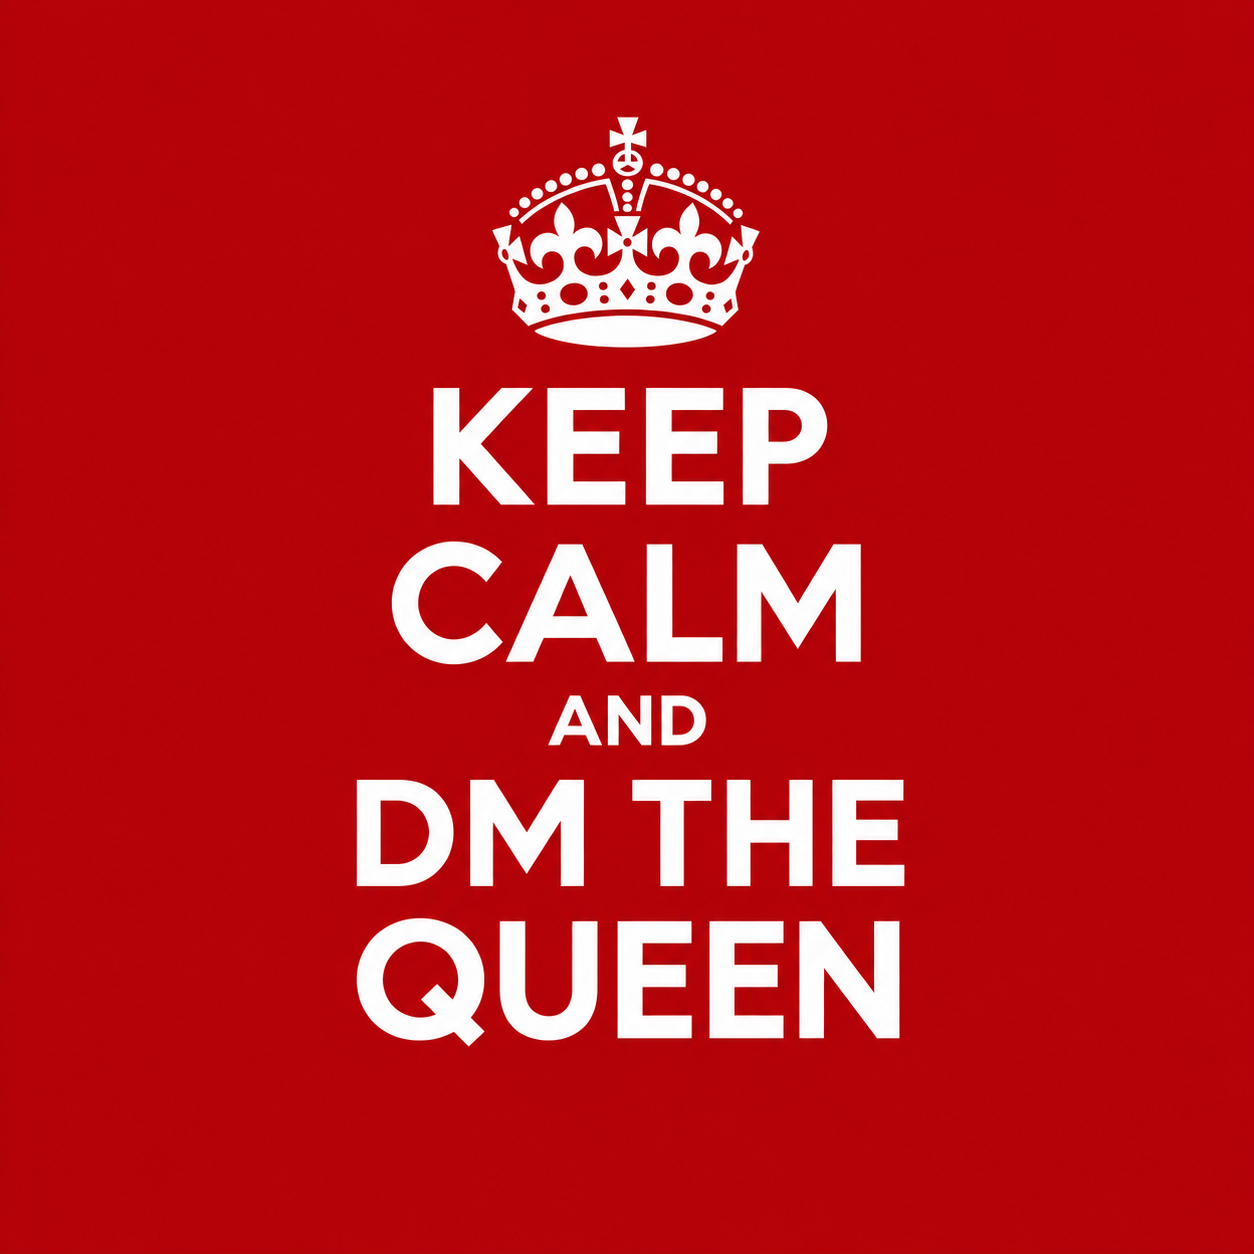
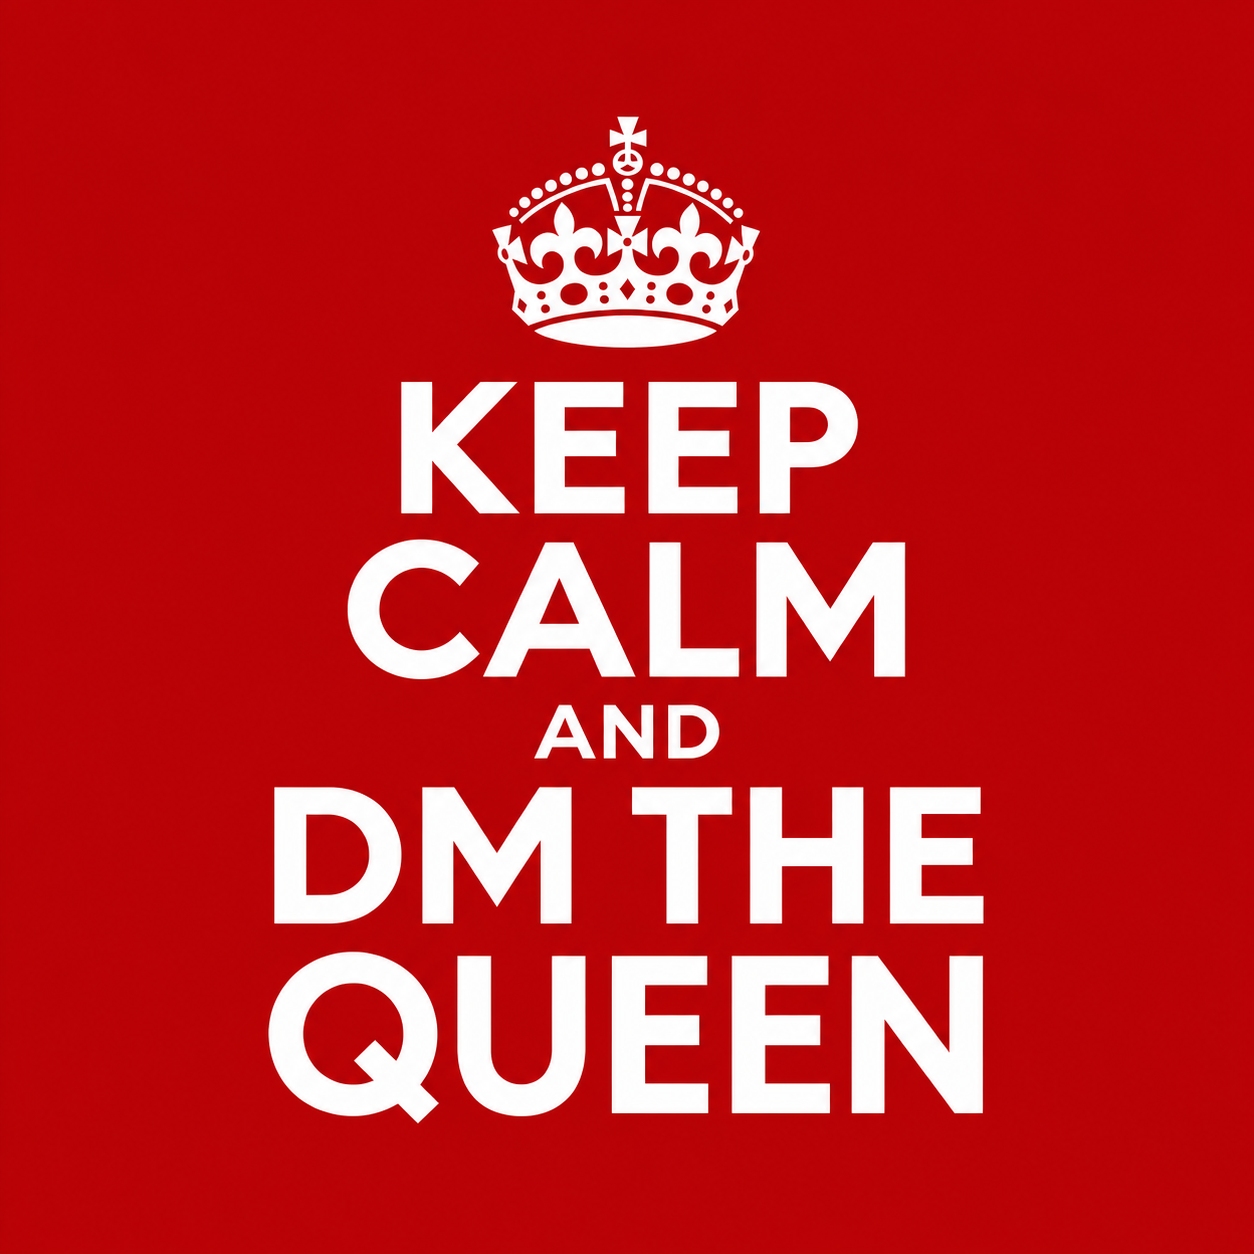
Tighten poster side and bottom margins

Changed region(s): [[0.1866, 0.2799, 0.8086, 0.9019], [0.4354, 0.1244, 0.5598, 0.1555], [0.5598, 0.1555, 0.5909, 0.1866]]

diff --git a/assets/README.md b/assets/README.md
@@ -1,13 +1,13 @@
 # Poster
 
 `keep-calm-and-dm-the-queen-square.png` is the current README artwork, edited
-with the built-in image generation tool from the original poster below. The
-square composition adds red space beside the lettering and displays at 400 pixels
-wide, reducing the height on the page. The wording was visually checked.
+with the built-in image generation tool. The square composition has tighter
+left, right, and bottom margins and still displays at 400 pixels wide. The
+wording was visually checked.
 
 Final edit prompt:
 
-> Edit the supplied Monarchy poster. Change its canvas and composition from a tall 2:3 portrait to a true 1:1 SQUARE poster. The user wants it shorter on a README page and with substantially more blank red space on either side of the text. Preserve the same deep red background, crisp flat white crown, white uppercase geometric sans-serif lettering, and EXACT text: KEEP / CALM / AND / DM THE / QUEEN. Preserve these five centered lines, with AND smaller. Keep all content upright and undistorted, no stretching. Scale the complete crown-and-lettering composition down to occupy approximately the middle 55 percent of the square's width, with broad even RED side margins of about 22 percent each; fit it comfortably within 85 percent of the square's height. The crown should remain clearly visible above the text, proportional to the smaller typography. Minimal flat poster artwork only: solid uniform red to all four edges, clean white symbols and lettering, no textures, gradients, frames, shadows, captions, or other text. Output a 1024 by 1024 square image. The extra negative space must be red, not white borders. This is an edit of the supplied artwork, retaining its familiar Keep Calm look.
+> Refine this exact square Keep Calm poster with a modest spacing adjustment, keeping the SQUARE canvas and overall design. The current display size is approved. Reduce the excessive blank red padding on the LEFT, RIGHT, and BOTTOM only. Keep roughly the existing top margin above the crown. Make the centered white lettering comfortably larger and arrange the vertical spacing more tightly so the widest text lines occupy approximately 62 percent of the canvas width (currently about 44 percent), with even red side margins around 19 percent each. Bring the bottom of QUEEN down to around 8 percent above the bottom edge (currently about 17 percent). Preserve the white crown above the words, the same red background, the clean geometric uppercase lettering style, and the EXACT wording in five lines: KEEP / CALM / AND / DM THE / QUEEN. AND remains smaller. Adjust inter-line spacing and crown-to-text spacing as needed for the tighter composition. Do not stretch or distort letterforms; no text changes, added words, borders, captions, texture, or new elements. The result must remain a 1:1 square, clean and balanced, with less wasted space beside and below the message.
 
 ## Original Poster
 
